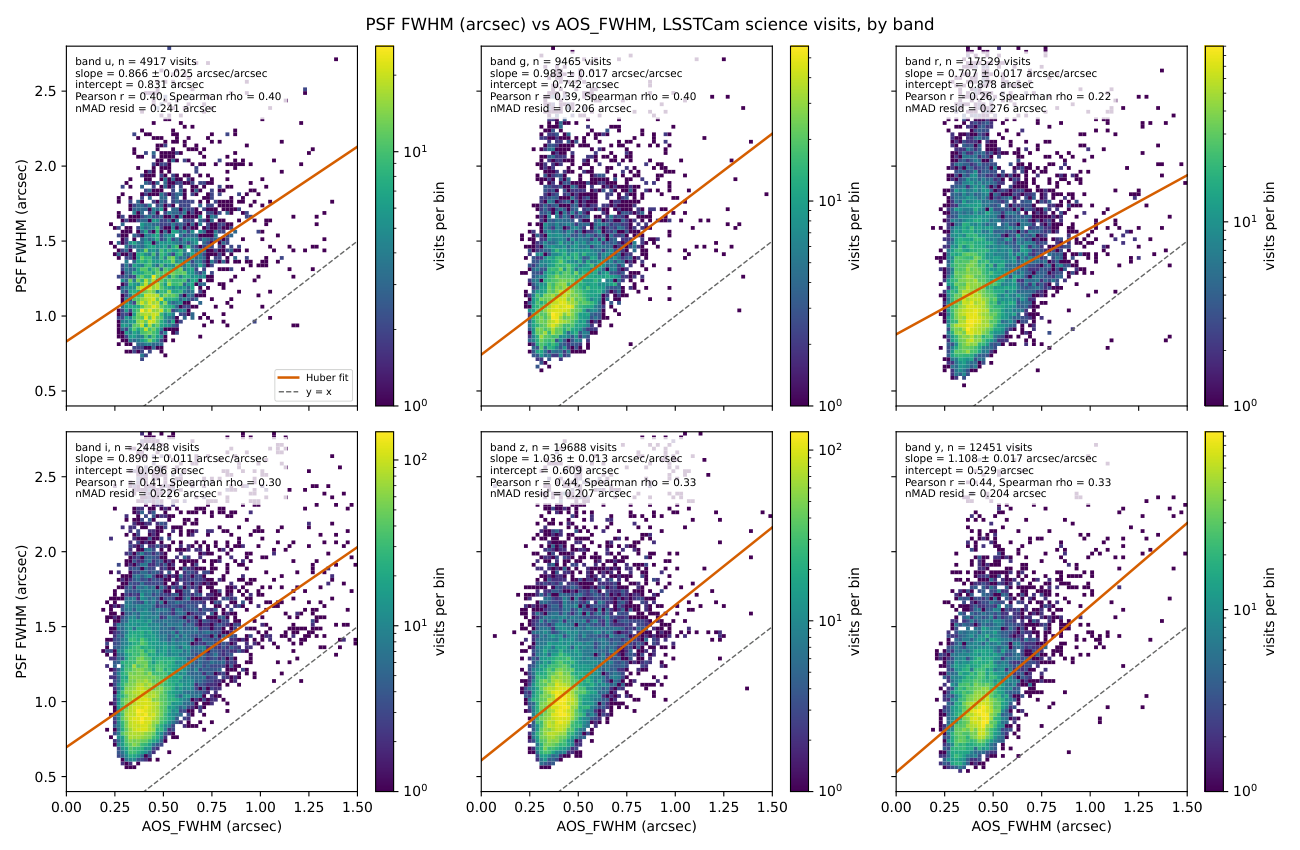
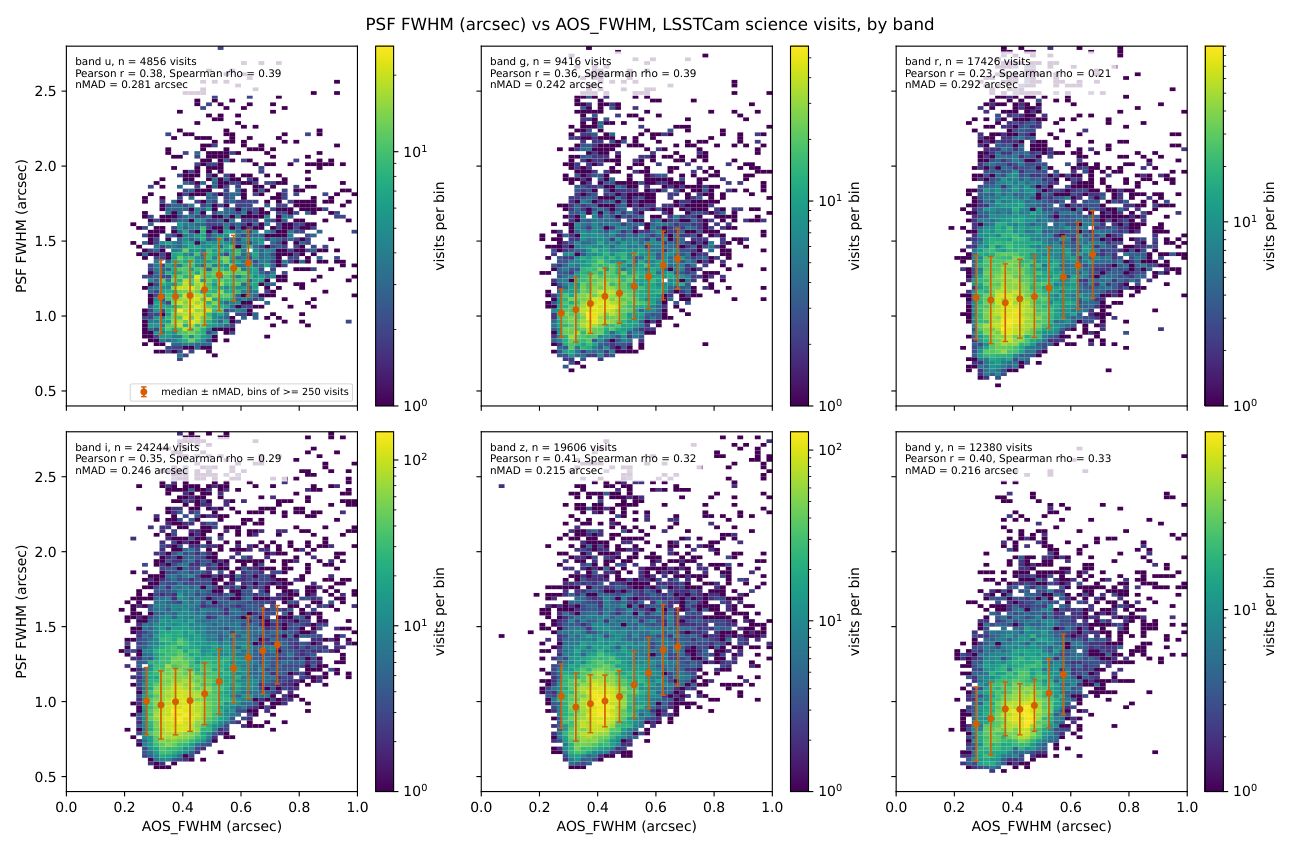
iq_stochastic: binned median and nMAD replace Huber lines
Generated with AI

diff --git a/nightlyiq/iq_stochastic/code/iq_vs_aos.py b/nightlyiq/iq_stochastic/code/iq_vs_aos.py
@@ -3,8 +3,8 @@
 Science visits from ConsDB ``visit1_quicklook``: ``psf_sigma_median`` (pixels) and
 ``aos_fwhm`` (arcsec, the PSF FWHM the AOS wavefront residual alone would give). The
 median ellipticity is ``psf_e_azel_p50`` from value_added, the median |e| over CCDs
-(dimensionless); ConsDB ``psf_ellipticity_median`` is empty. Each band gets a
-Huber robust linear fit. The ConsDB pull is cached in ``output/cache/``; ``--refetch``
+(dimensionless); ConsDB ``psf_ellipticity_median`` is empty. Each band's 2D histogram
+carries the median and nMAD of y in AOS_FWHM bins. The ConsDB pull is cached in ``output/cache/``; ``--refetch``
 replaces it.
 
 Usage::
@@ -23,7 +23,6 @@ matplotlib.use("Agg")
 import matplotlib.pyplot as plt
 from matplotlib.backends.backend_pdf import PdfPages
 from matplotlib.colors import LogNorm
-import statsmodels.api as sm
 from scipy import stats
 
 from rubinwork.common import study_run
@@ -40,12 +39,14 @@ MIN_CCD = 150  # partial readouts bias the ellipticity summary
 BANDS = ("u", "g", "r", "i", "z", "y")
 ENG_REASON = (r"aos|stability|focus|check|position|align|manual|dark|bias|flat|^test$"
               r"|_test|block-|filter_change_close_loop")
-# Ranges that drop failed measurements; both the fit and the histogram use them.
-CUTS = {"aos_fwhm": (0.0, 2.0), "fwhm": (0.3, 3.0), "e_med": (0.0, 0.3)}
+# Ranges that drop failed measurements; statistics and histograms both use them.
+CUTS = {"aos_fwhm": (0.0, 1.0), "fwhm": (0.3, 3.0), "e_med": (0.0, 0.3)}
 LABELS = {"aos_fwhm": "AOS_FWHM (arcsec)", "fwhm": "PSF FWHM (arcsec)",
           "e_med": "median ellipticity (dimensionless)"}
-BINS = {"aos_fwhm": np.linspace(0.0, 1.5, 76), "fwhm": np.linspace(0.4, 2.8, 97),
+BINS = {"aos_fwhm": np.linspace(0.0, 1.0, 51), "fwhm": np.linspace(0.4, 2.8, 97),
         "e_med": np.linspace(0.0, 0.25, 101)}
+MED_EDGES = np.linspace(0.0, 1.0, 21)  # arcsec of AOS_FWHM
+MIN_BIN = 250  # visits a bin needs before its median is drawn
 
 
 def fetch():
@@ -80,44 +81,42 @@ def load(refetch=False):
     return d
 
 
-def fit(x, y):
-    """Huber fit of y on x, with correlations and the robust residual scatter."""
-    rlm = sm.RLM(y, sm.add_constant(x), M=sm.robust.norms.HuberT()).fit()
-    b0, b1 = rlm.params
-    e0, e1 = rlm.bse
-    return dict(n=len(x), intercept=b0, intercept_err=e0, slope=b1, slope_err=e1,
-                pearson=stats.pearsonr(x, y)[0], spearman=stats.spearmanr(x, y)[0],
-                nmad_resid=nmad(y - (b0 + b1 * x)), nmad_y=nmad(y))
+def binned_median(x, y):
+    """Median and nMAD of y in AOS_FWHM bins holding at least MIN_BIN visits."""
+    idx = np.digitize(x, MED_EDGES) - 1
+    rows = []
+    for k in range(len(MED_EDGES) - 1):
+        yk = y[idx == k]
+        if len(yk) >= MIN_BIN:
+            rows.append(dict(x_lo=MED_EDGES[k], x_hi=MED_EDGES[k + 1], n=len(yk),
+                             median=np.median(yk), nmad=nmad(yk)))
+    return pd.DataFrame(rows)
 
 
-def band_grid(d, ycol, results):
+def band_grid(d, ycol, stats_rows, med_rows):
     fig, axes = plt.subplots(2, 3, figsize=(13, 8.5), sharex=True, sharey=True)
     xb, yb = BINS["aos_fwhm"], BINS[ycol]
+    unit = " arcsec" if ycol == "fwhm" else ""
     for ax, b in zip(axes.flat, BANDS):
         s = d[d.band == b]
-        lo_x, hi_x = CUTS["aos_fwhm"]
-        lo_y, hi_y = CUTS[ycol]
-        s = s[s.aos_fwhm.between(lo_x, hi_x) & s[ycol].between(lo_y, hi_y)]
+        s = s[s.aos_fwhm.between(*CUTS["aos_fwhm"]) & s[ycol].between(*CUTS[ycol])]
         if len(s) < 20:
             ax.text(0.5, 0.5, f"{b}: {len(s)} visits", transform=ax.transAxes, ha="center")
             continue
-        h = ax.hist2d(s.aos_fwhm, s[ycol], bins=[xb, yb], norm=LogNorm(), cmap="viridis",
-                      cmin=1)
-        r = fit(s.aos_fwhm.to_numpy(), s[ycol].to_numpy())
-        results.append(dict(band=b, y=ycol, **r))
-        xx = np.array([xb[0], xb[-1]])
-        ax.plot(xx, r["intercept"] + r["slope"] * xx, color="#D55E00", lw=1.8,
-                label="Huber fit")
-        if ycol == "fwhm":
-            ax.plot(xx, xx, color="0.4", lw=1, ls="--", label="y = x")
-        unit = "arcsec" if ycol == "fwhm" else ""
-        slope_unit = "arcsec/arcsec" if ycol == "fwhm" else "1/arcsec"
+        x, y = s.aos_fwhm.to_numpy(), s[ycol].to_numpy()
+        h = ax.hist2d(x, y, bins=[xb, yb], norm=LogNorm(), cmap="viridis", cmin=1)
+        m = binned_median(x, y)
+        med_rows.append(m.assign(band=b, y=ycol))
+        ax.errorbar(0.5 * (m.x_lo + m.x_hi), m["median"], yerr=m["nmad"], fmt="o",
+                    color="#D55E00", ms=4, capsize=2, lw=1.2,
+                    label=f"median ± nMAD, bins of >= {MIN_BIN} visits")
+        r = dict(band=b, y=ycol, n=len(s), pearson=stats.pearsonr(x, y)[0],
+                 spearman=stats.spearmanr(x, y)[0], median_y=np.median(y), nmad_y=nmad(y))
+        stats_rows.append(r)
         ax.text(0.03, 0.97,
                 f"band {b}, n = {r['n']} visits\n"
-                f"slope = {r['slope']:.3f} ± {r['slope_err']:.3f} {slope_unit}\n"
-                f"intercept = {r['intercept']:.3f} {unit}\n"
                 f"Pearson r = {r['pearson']:.2f}, Spearman rho = {r['spearman']:.2f}\n"
-                f"nMAD resid = {r['nmad_resid']:.3f} {unit}",
+                f"nMAD = {r['nmad_y']:.3f}{unit}",
                 transform=ax.transAxes, va="top", fontsize=7.5, color="black",
                 bbox=dict(facecolor="white", alpha=0.8, edgecolor="none"))
         fig.colorbar(h[3], ax=ax, label="visits per bin")
@@ -135,7 +134,7 @@ def page_summary(pdf, d, res):
     lines = [
         "nightlyiq/iq_stochastic: PSF FWHM and median ellipticity vs AOS_FWHM",
         "",
-        f"ConsDB visit1_quicklook, LSSTCam img_type science with aos_fwhm, engineering",
+        "ConsDB visit1_quicklook, LSSTCam img_type science with aos_fwhm, engineering",
         f"observation_reason excluded: {len(d)} visits, {d.day_obs.nunique()} nights, "
         f"day_obs {d.day_obs.min()} to {d.day_obs.max()}",
         "PSF FWHM = psf_sigma_median x 2.355 x 0.2 arcsec/pixel",
@@ -143,18 +142,16 @@ def page_summary(pdf, d, res):
         f"psf_n_ccd >= {MIN_CCD}; {d.e_med.notna().sum()} visits have it",
         f"Cuts: AOS_FWHM {CUTS['aos_fwhm']} arcsec, FWHM {CUTS['fwhm']} arcsec, "
         f"ellipticity {CUTS['e_med']} (dimensionless)",
-        "Fit: Huber RLM, y = intercept + slope x AOS_FWHM. nMAD resid = robust scatter of",
-        "the fit residuals; nMAD y = robust scatter of y alone (same units as y).",
+        f"Points: median of y in {MED_EDGES[1] - MED_EDGES[0]:.2f} arcsec AOS_FWHM bins, "
+        f"error bar nMAD (1.4826 x MAD) of y; only bins with >= {MIN_BIN} visits.",
         "",
-        f"{'band':4s} {'y':6s} {'n':>6s} {'slope':>15s} {'intercept':>10s} {'Pearson r':>9s} "
-        f"{'Spearman':>9s} {'nMAD resid':>10s} {'nMAD y':>8s}",
-        "     units: FWHM slope arcsec/arcsec, intercept and nMAD arcsec; ellipticity slope "
-        "1/arcsec, intercept and nMAD dimensionless",
+        f"{'band':4s} {'y':6s} {'n':>6s} {'Pearson r':>9s} {'Spearman':>9s} {'median y':>9s} "
+        f"{'nMAD y':>8s}",
+        "     units: median and nMAD arcsec for fwhm, dimensionless for e_med",
     ]
     for r in res.itertuples():
-        lines.append(f"{r.band:4s} {r.y:6s} {r.n:6d} {r.slope:7.3f}±{r.slope_err:.3f}  "
-                     f"{r.intercept:10.3f} {r.pearson:9.2f} {r.spearman:9.2f} "
-                     f"{r.nmad_resid:10.3f} {r.nmad_y:8.3f}")
+        lines.append(f"{r.band:4s} {r.y:6s} {r.n:6d} {r.pearson:9.2f} {r.spearman:9.2f} "
+                     f"{r.median_y:9.3f} {r.nmad_y:8.3f}")
     fig = plt.figure(figsize=(13, 8.5))
     fig.text(0.04, 0.96, "\n".join(lines), va="top", family="monospace", fontsize=8.5)
     pdf.savefig(fig)
@@ -166,11 +163,12 @@ def main():
     ap.add_argument("--refetch", action="store_true")
     args = ap.parse_args()
     d = load(args.refetch)
-    run = study_run(STUDY, "iq_vs_aos")
-    results = []
-    figs = [band_grid(d, ycol, results) for ycol in ("fwhm", "e_med")]
-    res = pd.DataFrame(results)
-    res.to_csv(run.path / "huber_fits.csv", index=False)
+    run = study_run(STUDY, "binned_median")
+    stats_rows, med_rows = [], []
+    figs = [band_grid(d, ycol, stats_rows, med_rows) for ycol in ("fwhm", "e_med")]
+    res = pd.DataFrame(stats_rows)
+    res.to_csv(run.path / "band_stats.csv", index=False)
+    pd.concat(med_rows, ignore_index=True).to_csv(run.path / "binned_medians.csv", index=False)
     out = run.path / "iq_vs_aos.pdf"
     with PdfPages(out) as pdf:
         page_summary(pdf, d, res)

diff --git a/nightlyiq/iq_stochastic/study.md b/nightlyiq/iq_stochastic/study.md
@@ -3,7 +3,7 @@ study: iq_stochastic
 topic: nightlyiq
 status: active
 question: How much of the per-visit FWHM and median ellipticity does AOS_FWHM predict, band by band, and how large is the scatter it leaves?
-answer: 'AOS_FWHM predicts little of either. Per band, Pearson r is 0.26 to 0.44 for FWHM and 0.16 to 0.30 for median ellipticity. The Huber fit cuts the nMAD of FWHM from 0.22-0.30 arcsec to 0.20-0.28 arcsec, and leaves the ellipticity nMAD almost unchanged (0.03-0.04, dimensionless).'
+answer: 'AOS_FWHM sets a trend but not the visit. Across AOS_FWHM 0.25 to 0.75 arcsec the per-bin median FWHM rises by 0.23 to 0.38 arcsec, depending on band, while the nMAD of FWHM within one bin is 0.16 to 0.30 arcsec. For median ellipticity the per-bin median rises by 0.013 to 0.047 against a within-bin nMAD of 0.021 to 0.054 (both dimensionless).'
 uses:
   value_added: v1@20261105
 started: 2026-11-13
@@ -17,7 +17,7 @@ How much of the per-visit FWHM and median ellipticity does AOS_FWHM predict, ban
 
 ## Current answer
 
-AOS_FWHM predicts little of either. Per band, Pearson r is 0.26 to 0.44 for FWHM and 0.16 to 0.30 for median ellipticity. The Huber fit cuts the nMAD of FWHM from 0.22-0.30 arcsec to 0.20-0.28 arcsec, and leaves the ellipticity nMAD almost unchanged (0.03-0.04, dimensionless).
+AOS_FWHM sets a trend but not the visit. Across AOS_FWHM 0.25 to 0.75 arcsec the per-bin median FWHM rises by 0.23 to 0.38 arcsec, depending on band, while the nMAD of FWHM within one bin is 0.16 to 0.30 arcsec. For median ellipticity the per-bin median rises by 0.013 to 0.047 against a within-bin nMAD of 0.021 to 0.054 (both dimensionless).
 
 ## Log
 
@@ -46,3 +46,17 @@ CCDs, needs at least 150 CCDs; 83,425 visits). Per band: 2D histogram plus a Hub
 r is Pearson and rho is Spearman, both over the visits in that band. The FWHM slopes are
 near 1 arcsec/arcsec, but at a fixed AOS_FWHM the FWHM still spans about 1 arcsec
 (`figures/fwhm_vs_aos_fwhm.png`).
+
+### 2026-11-13 — binned medians replace the Huber lines
+
+The Huber lines missed most of the behavior: the residuals were nearly as wide as y
+itself. Run `output/20261113_binned_median/` (`iq_vs_aos.pdf`, `band_stats.csv`,
+`binned_medians.csv`) drops them and the y = x line. Each panel now shows the median of y
+in 0.05 arcsec AOS_FWHM bins, with an nMAD error bar, for bins of at least 250 visits.
+AOS_FWHM is cut to 0 to 1.0 arcsec.
+
+Across the populated bins (about 0.25 to 0.70 arcsec AOS_FWHM), the median FWHM rises by
+0.23 arcsec (u band) to 0.38 arcsec (i band). The within-bin FWHM nMAD is 0.16 to 0.30 arcsec.
+Below about 0.45 arcsec AOS_FWHM the median FWHM is nearly flat. The median ellipticity rises
+by 0.013 (u band) to 0.047 (z band), while the within-bin nMAD is 0.021 to 0.054 (both
+dimensionless). `figures/fwhm_vs_aos_fwhm.png` is now the FWHM page of this run.
